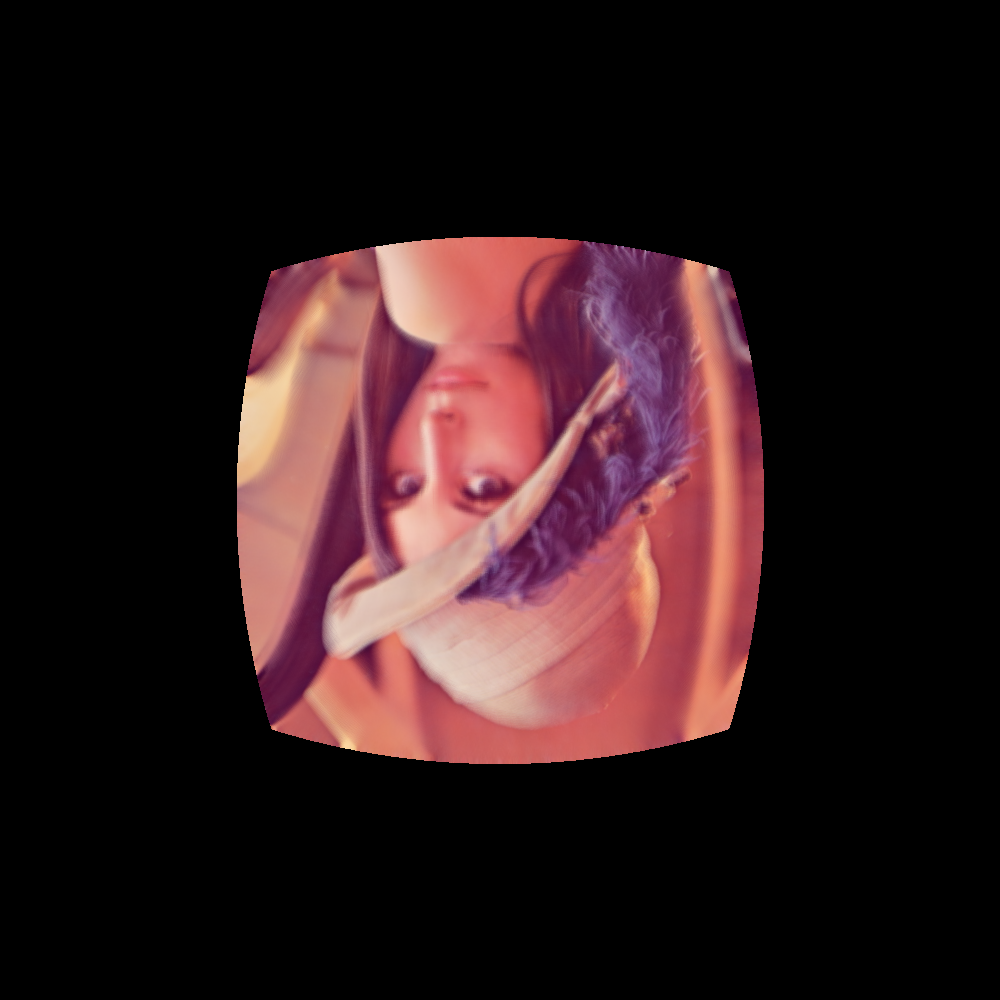
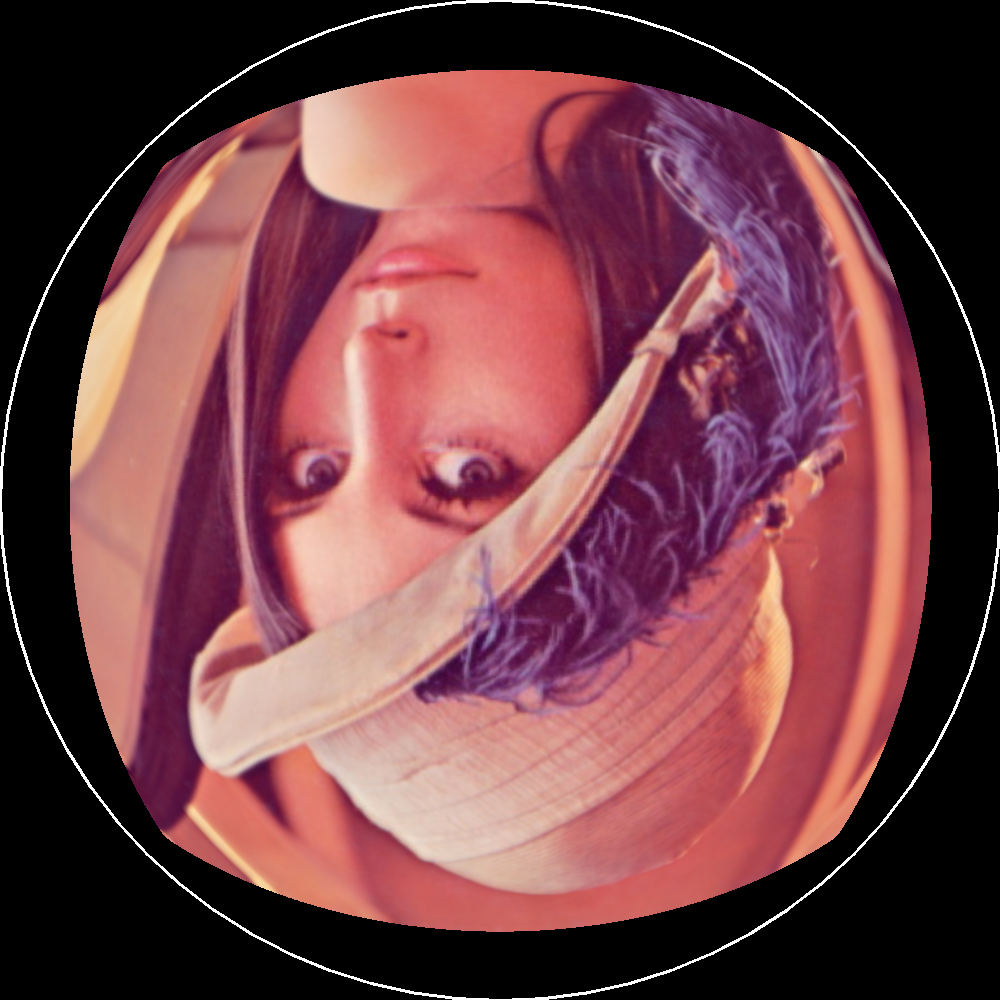
some fixes

diff --git a/src/main.cpp b/src/main.cpp
@@ -6,16 +6,18 @@
 
 int main()
 {
+	float density = 2;
+
 	float focus = 120;
-	float srcZ = 120;
-	float pupil = 3;
+	float srcZ = 520;
+	float pupil = 6;
 	cv::Mat src = cv::imread("F:/ImagesForTest/lena.jpg");
 	cv::Mat screen = cv::Mat::zeros(1000, 1000, CV_32FC3);
 	cv::Mat screenHitCount = cv::Mat::zeros(screen.size(), CV_32FC1);
 	HumanEye camera;
 	camera.SetFocalLength(focus);
 	camera.SetPupilSize(pupil);
-	float density = 4;
+	
 	cv::resize(src, src, cv::Size(), density, density);
 	float xs = -float(src.cols) / density;
 	float ys = -float(src.rows) / density;
@@ -27,12 +29,12 @@ int main()
 	float stepy = dy / float(src.rows);
 	float cx = 0;
 	float cy = 0;
-	float rad = 29;
-	cx *= screen.cols / 2.0 / 30.0;
-	cy *= screen.rows / 2.0 / 30.0;
+	float rad = 24;
+	cx *= screen.cols / 2.0 / 24.0;
+	cy *= screen.rows / 2.0 / 24.0;
 	cx += screen.cols / 2.0;
 	cy = screen.rows / 2.0 - cy;
-	rad *= screen.cols / 2.0 / 30.0;
+	rad *= screen.cols / 2.0 / 24.0;
 	
 	int row = 0;
 	for (float srcY = ys; srcY < ye; srcY += stepy)
@@ -65,7 +67,7 @@ int main()
 
 	cv::circle(screen, cv::Point(cx, cy), rad, cv::Scalar(255, 255, 255), 2);
 	cv::imshow("screen", screen);
-	cv::imwrite("res1.png", screen * 255);
+	cv::imwrite("res2.png", screen * 255);
 	cv::waitKey();
 	return 1;
 }
@@ -74,29 +76,45 @@ int main()
 /*
 int main()
 {
-	float focus = 2120;
+	float focus = 220;
 	float srcZ = 120;
-	float pupil = 3;
+	float pupil = 6;
 	cv::Mat screen = cv::Mat::zeros(1000, 1000, CV_32FC3);
 	cv::Mat screenHitCount = cv::Mat::zeros(screen.size(), CV_32FC1);
 	HumanEye camera;
 	camera.SetFocalLength(focus);
 	camera.SetPupilSize(pupil);
+	
+	for (auto l : camera.lenses)
+	{
+		l.print();
+	}
 
 	float cx = 0;
 	float cy = 0;
-	float rad = 29;
-	cx *= screen.cols / 2 / 30.0;
-	cy *= screen.rows / 2 / 30.0;
+	float rad = 24;
 	cx += screen.cols / 2;
-	cy = screen.rows / 2 - cy;
-	rad *= screen.cols / 2 / 30.0;
+	cy += screen.rows / 2;
+	rad *= screen.cols / 60.0;
 
 			cv::Vec3b color(255, 255, 255);
 			cv::Vec3f colorf((float)color[0] / 255.0, (float)color[1] / 255.0, (float)color[2] / 255.0);
-			camera.GenerateRay(focus, 0, 0, srcZ, pupil, screen, screenHitCount, colorf);
-
-	cv::circle(screen, cv::Point(cx, cy), rad, cv::Scalar(255, 255, 255), 2);
+			float R = 700;
+			
+			for (float r = 0; r < R; r += R/15)
+			{
+				for (float a = 0; a < 2 * M_PI; a += M_PI / 60)
+				{
+					float x = r * cos(a);
+					float y = r * sin(a);
+					camera.GenerateRay(focus, x, y, srcZ, pupil, screen, screenHitCount, colorf);
+				}
+			}
+			
+			float x = R * cos(0);
+			float y = R * sin(0);
+			camera.GenerateRay(focus, x, y, srcZ, pupil, screen, screenHitCount, colorf);
+	
 
 	std::vector<cv::Mat> ch;
 	cv::split(screen, ch);
@@ -104,9 +122,12 @@ int main()
 	{
 		cv::divide(c, screenHitCount, c);
 	}
+	
 	cv::merge(ch, screen);
+	cv::circle(screen, cv::Point(cx, cy), rad, cv::Scalar(255, 255, 255), 2);
 	cv::imshow("screen", screen);
 	cv::imwrite("res1.png", screen * 255);
 	cv::waitKey();
 	return 1;
-}*/
+}
+*/

diff --git a/src/eye.h b/src/eye.h
@@ -10,6 +10,18 @@
 class Lens
 {
 	public:
+
+		inline void print(void)
+		{
+			std::cout << "-----------------" << std::endl;
+			std::cout << "radius=" << radius << std::endl <<
+				"asphericity=" << asphericity << std::endl <<
+				"zPos=" << zPos << std::endl <<
+				"refractionRatio=" << refractionRatio << std::endl <<
+				"aperture=" << aperture << std::endl;
+			std::cout << "-----------------" << std::endl;
+		}
+
 		Lens(float rad, float asph, float zpos, float refr, float aper);
 		bool RefractRay(const Ray &inRay, Ray &outRay) const;
 		Vector GetNormal(const Ray * ray, const Point & p) const;
@@ -40,7 +52,7 @@ class HumanEye
 			lenses[3].aperture = pupilSize;
 		}
 
-	private:
+	//private:
 		// film plane's z position
 		float filmPlane;
 		float filmDistance;

diff --git a/README.md b/README.md
@@ -4,17 +4,17 @@ Based om tecton's Human-Eye-Model-Ray-Tracing
 
 Rather accurate model of huan eye.
 
-* focus = 420 mm 
+* focus = 520 mm 
 
-* distance = 420 mm
+* distance = 520 mm
 * pupil = 6 mm
 
-![](res0.png)
+![](res1.png)
 
 
 * focus = 120 mm
-* distance = 420 mm
+* distance = 520 mm
 * pupil = 6 mm
 
 
-![](res1.png)
+![](res2.png)
